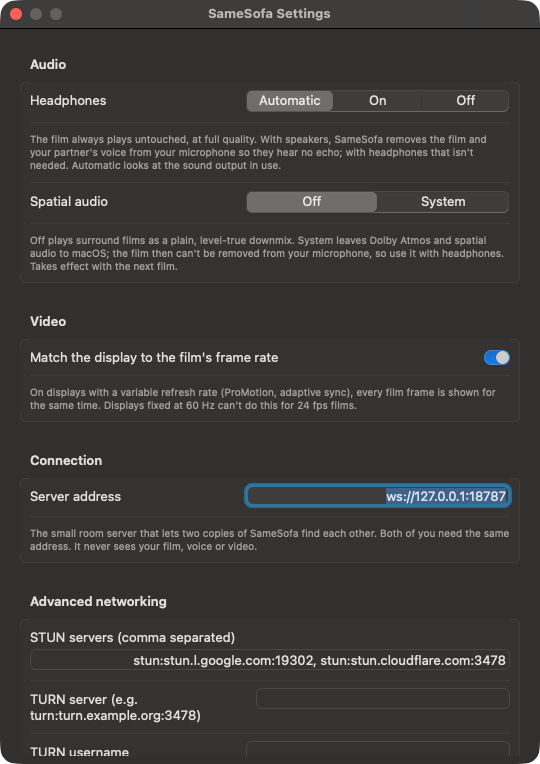
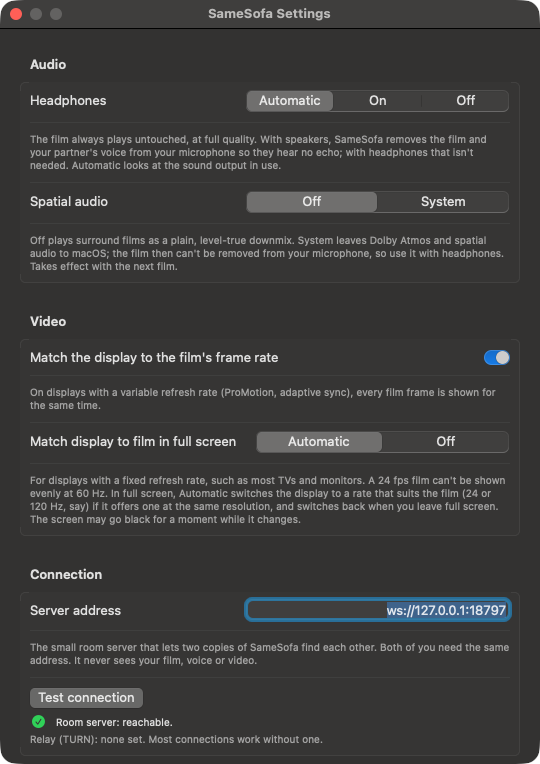
Seek bar shows which parts of the film the guest has, on both sides; version 1.2.1
The guest reports the received parts as runs of chunks with every progress
report (new optional message 'have'; older copies ignore it). While the film
is still arriving both seek bars draw them faintly, so after a jump ahead it
is visible where playing is immediate.

README: what is new in 1.2.1, the test program's modes, known limits.
scripts/build.sh builds 1.2.1 by default.

Changed region(s): [[0.0593, 0.5118, 0.9481, 0.873], [0.0593, 0.9031, 0.5926, 0.9935], [0.4444, 0.7827, 0.9481, 0.8128]]

diff --git a/Sources/SameSofa/PartyView.swift b/Sources/SameSofa/PartyView.swift
@@ -217,7 +217,8 @@ struct PartyView: View {
         let enabled = (party.phase == .together || party.role == .host) && party.preparing == nil && playback.isLoaded
         return VStack(spacing: 10) {
             ScrubBar(position: scrubbing ?? playback.position, duration: playback.duration,
-                     available: party.role == .guest ? party.transferFraction : 1) { value, ended in
+                     available: party.role == .guest ? party.transferFraction : 1,
+                     ranges: party.transferFraction < 1 ? party.receivedRanges : []) { value, ended in
                 scrubbing = ended ? nil : value
                 if ended { playback.seek(to: value) }
                 poke()
@@ -654,6 +655,10 @@ struct ScrubBar: View {
     let duration: Double
     /// Share of the film available locally (guest), drawn faintly.
     let available: Double
+    /// The parts of the film the guest has (0...1), drawn faintly on both
+    /// sides while the film is still arriving: after a jump ahead it shows
+    /// where playing will be immediate and where it has to wait.
+    var ranges: [ClosedRange<Double>] = []
     let onScrub: (Double, Bool) -> Void
     @State private var hovering = false
 
@@ -662,7 +667,15 @@ struct ScrubBar: View {
             let fraction = duration > 0 ? min(1, max(0, position / duration)) : 0
             ZStack(alignment: .leading) {
                 Capsule().fill(Color.white.opacity(0.18)).frame(height: hovering ? 7 : 5)
-                Capsule().fill(Color.white.opacity(0.18)).frame(width: geo.size.width * available, height: hovering ? 7 : 5)
+                if ranges.isEmpty {
+                    Capsule().fill(Color.white.opacity(0.18)).frame(width: geo.size.width * available, height: hovering ? 7 : 5)
+                } else {
+                    ForEach(Array(ranges.enumerated()), id: \.offset) { _, range in
+                        RoundedRectangle(cornerRadius: 2).fill(Color.white.opacity(0.22))
+                            .frame(width: max(2, geo.size.width * (range.upperBound - range.lowerBound)), height: hovering ? 7 : 5)
+                            .offset(x: geo.size.width * range.lowerBound)
+                    }
+                }
                 Capsule().fill(Theme.accent).frame(width: max(0, geo.size.width * fraction), height: hovering ? 7 : 5)
                 Circle().fill(.white).frame(width: hovering ? 16 : 12, height: hovering ? 16 : 12)
                     .offset(x: geo.size.width * fraction - (hovering ? 8 : 6))

diff --git a/Sources/SameSofaKit/Party.swift b/Sources/SameSofaKit/Party.swift
@@ -68,6 +68,8 @@ public final class Party: ObservableObject {
     @Published public private(set) var transferLine = ""
     /// ICE failed or timed out while setting up: the view offers "Try again".
     @Published public private(set) var connectionFailed = false
+    /// Which parts of the film the guest has, as shares of the film (0...1), on both sides (for the seek bar).
+    @Published public private(set) var receivedRanges: [ClosedRange<Double>] = []
     /// The partner's SameSofa is older or newer than this one (shown as a note; nothing is blocked).
     @Published public private(set) var versionNote: String?
     private var connectTimeout: DispatchWorkItem?
@@ -437,6 +439,7 @@ public final class Party: ObservableObject {
 
     private func partnerLeft() {
         versionNote = nil
+        if role == .host { receivedRanges = [] }
         dropGrace?.cancel()
         partnerPositionTimeout?.cancel()
         awaitingPartnerPosition = false
@@ -494,6 +497,9 @@ public final class Party: ObservableObject {
             sender?.request(chunks, urgent: urgent, reset: reset ?? false)
         case .progress(let fraction):
             transferFraction = fraction
+        case .have(let ranges):
+            guard role == .host, let film = sharedFilm else { return }
+            receivedRanges = ChunkMap.fractions(ranges: ranges, chunkCount: ChunkMap.chunkCount(fileSize: film.size, chunkSize: film.chunkSize))
         case .timeline(let timeline):
             playback.receive(timeline)
         case .heartbeat(let timeline, let actual):
@@ -551,6 +557,10 @@ public final class Party: ObservableObject {
             receiver.onProgress = { [weak self] fraction in
                 self?.transferFraction = fraction
                 self?.control?.send(.progress(fraction: fraction))
+            }
+            receiver.onRanges = { [weak self] ranges, count in
+                self?.receivedRanges = ChunkMap.fractions(ranges: ranges, chunkCount: count)
+                self?.control?.send(.have(ranges: ranges))
             }
             if let fileChannel { receiver.attach(fileChannel) }
             let asset = AVURLAsset(url: receiver.playerURL)

diff --git a/Sources/SameSofaCore/Chunks.swift b/Sources/SameSofaCore/Chunks.swift
@@ -163,3 +163,43 @@ public struct ChunkScheduler: Sendable {
     /// Forget in-flight requests (e.g. after a reconnect) so they get re-asked.
     public mutating func resetInFlight() { inFlight.removeAll() }
 }
+
+extension ChunkMap {
+    /// The received parts as runs of chunks `[first, last]`, in order. With
+    /// more than `limit` runs (a film scrubbed through many times) the
+    /// narrowest gaps are closed until `limit` are left: it is a picture for
+    /// the seek bar, not a record.
+    public func ranges(limit: Int = 48) -> [[Int]] {
+        var runs: [[Int]] = []
+        var start: Int?
+        for index in 0..<chunkCount {
+            if has(index) {
+                if start == nil { start = index }
+            } else if let first = start {
+                runs.append([first, index - 1])
+                start = nil
+            }
+        }
+        if let first = start { runs.append([first, chunkCount - 1]) }
+        while runs.count > max(1, limit) {
+            var narrowest = 1
+            for i in 1..<runs.count where runs[i][0] - runs[i - 1][1] < runs[narrowest][0] - runs[narrowest - 1][1] { narrowest = i }
+            runs[narrowest - 1][1] = runs[narrowest][1]
+            runs.remove(at: narrowest)
+        }
+        return runs
+    }
+
+    /// Runs of chunks as shares of the film (0...1). Anything malformed is left out.
+    public static func fractions(ranges: [[Int]], chunkCount: Int) -> [ClosedRange<Double>] {
+        guard chunkCount > 0 else { return [] }
+        return ranges.compactMap { run in
+            guard run.count == 2, run[0] >= 0, run[1] >= run[0], run[1] < chunkCount else { return nil }
+            return (Double(run[0]) / Double(chunkCount))...(Double(run[1] + 1) / Double(chunkCount))
+        }
+    }
+
+    public static func chunkCount(fileSize: Int64, chunkSize: Int) -> Int {
+        chunkSize > 0 ? Int((fileSize + Int64(chunkSize) - 1) / Int64(chunkSize)) : 0
+    }
+}

diff --git a/Tests/SameSofaCoreTests/NudgeTests.swift b/Tests/SameSofaCoreTests/NudgeTests.swift
@@ -134,4 +134,27 @@ final class CompatibilityTests: XCTestCase {
         idle.lowerHeldPosition(to: 0)
         XCTAssertFalse(idle.timeline.playing)
     }
+
+    func testReceivedRanges() {
+        var map = ChunkMap(fileSize: 1000 * 100, chunkSize: 1000)
+        XCTAssertEqual(map.ranges(), [])
+        for index in Array(0..<10) + Array(50..<60) + [99] { _ = map.mark(index) }
+        XCTAssertEqual(map.ranges(), [[0, 9], [50, 59], [99, 99]])
+        let fractions = ChunkMap.fractions(ranges: map.ranges(), chunkCount: map.chunkCount)
+        XCTAssertEqual(fractions.count, 3)
+        XCTAssertEqual(fractions[1].lowerBound, 0.5, accuracy: 1e-9)
+        XCTAssertEqual(fractions[1].upperBound, 0.6, accuracy: 1e-9)
+        XCTAssertEqual(fractions[2].upperBound, 1, accuracy: 1e-9)
+        // More runs than wanted: the narrowest gaps close first.
+        _ = map.mark(11)
+        XCTAssertEqual(map.ranges(limit: 3), [[0, 11], [50, 59], [99, 99]])
+        XCTAssertEqual(map.ranges(limit: 1), [[0, 99]])
+        // What another version sends is not trusted.
+        XCTAssertEqual(ChunkMap.fractions(ranges: [[5], [9, 3], [-1, 2], [0, 100], [1, 2]], chunkCount: 100).count, 1)
+        XCTAssertEqual(ChunkMap.chunkCount(fileSize: 100_001, chunkSize: 1000), 101)
+        // The message survives the wire, and a decoder that does not know it gives nil instead of failing loudly.
+        let message = ControlMessage.have(ranges: [[0, 9], [50, 59]])
+        XCTAssertEqual(ControlMessage.decode(message.encoded()), message)
+        XCTAssertNil(ControlMessage.decode(Data("{\"somethingNew\":{}}".utf8)))
+    }
 }

diff --git a/Sources/SameSofaKit/FileTransfer.swift b/Sources/SameSofaKit/FileTransfer.swift
@@ -140,6 +140,8 @@ public final class FileReceiver: NSObject, RTCDataChannelDelegate, AVAssetResour
     var requestChunks: (([Int], Bool, Bool) -> Void)?
     /// Fraction received, called on the main queue (throttled).
     var onProgress: ((Double) -> Void)?
+    /// Which parts have arrived (runs of chunks, chunk count), with every progress report.
+    var onRanges: (([[Int]], Int) -> Void)?
     private var lastProgressReport = Date.distantPast
     public private(set) var bytesReceived: Int64 = 0
 
@@ -230,6 +232,10 @@ public final class FileReceiver: NSObject, RTCDataChannelDelegate, AVAssetResour
             lastProgressReport = Date()
             let fraction = scheduler.map.fraction
             if let onProgress { DispatchQueue.main.async { onProgress(fraction) } }
+            if let onRanges {
+                let ranges = scheduler.map.ranges(), count = scheduler.map.chunkCount
+                DispatchQueue.main.async { onRanges(ranges, count) }
+            }
         }
     }
 

diff --git a/Sources/samesofa-itest/main.swift b/Sources/samesofa-itest/main.swift
@@ -187,6 +187,11 @@ func runSeekScenario() {
     host.playback.play()
     spin(2)
     _ = jump(0.5, from: host, label: "host to 50%", maxWait: 90)
+    // The seek bar's picture of what the guest has: the start and the part around the new position, on both sides.
+    check("received parts shown as separate ranges after a jump", wait(5) { guest.receivedRanges.count >= 2 },
+          guest.receivedRanges.map { String(format: "%.0f-%.0f%%", $0.lowerBound * 100, $0.upperBound * 100) }.joined(separator: " "))
+    check("the host sees the same ranges", wait(5) { host.receivedRanges.count == guest.receivedRanges.count && host.receivedRanges.count >= 2
+            && zip(host.receivedRanges, guest.receivedRanges).allSatisfy { abs($0.lowerBound - $1.lowerBound) < 0.03 && abs($0.upperBound - $1.upperBound) < 0.03 } })
     _ = jump(0.9, from: guest, label: "guest to 90%", maxWait: 90)
     // Scrub: ten quick seeks; only the last matters.
     let t0 = Date()

diff --git a/Sources/SameSofaCore/Messages.swift b/Sources/SameSofaCore/Messages.swift
@@ -78,6 +78,9 @@ public enum ControlMessage: Codable, Equatable, Sendable {
     case want(chunks: [Int], urgent: Bool, reset: Bool? = nil)
     /// Guest -> host: how much of the film has arrived (0...1).
     case progress(fraction: Double)
+    /// Guest -> host: which parts of the film have arrived, as runs of
+    /// chunks `[first, last]` (for the host's seek bar). Older apps ignore it.
+    case have(ranges: [[Int]])
     /// Either side: a new timeline (play, pause or seek).
     case timeline(Timeline)
     /// Host -> guest every second: the current timeline plus where the host's

diff --git a/README.md b/README.md
@@ -50,6 +50,34 @@ hear each other.
 *(Screenshots use a generated test film and a generated stand-in camera
 picture.)*
 
+### New in 1.2.1
+
+- **A dropped connection comes back by itself.** Both sides show "Connection
+  lost. Trying to reconnect…", the film waits, and the call is set up again in
+  the same room; what the guest has received is kept and the film resumes
+  from where the first side stopped. "Try again" (also after a first
+  connection that failed) really tries again.
+- **Seeking ahead of the download** holds both sides at once, fetches from the
+  new place first, and the seek bar shows on both sides which parts the guest
+  already has. The transfer line shows bytes, speed and time left on both sides.
+- **Call audio:** a crash when the microphone and the loudspeaker callbacks
+  overlapped is fixed, microphones with any sample rate and channel count
+  work (several channels are mixed), a sound device that changes mid-film is
+  followed, and the ⓘ readout says why a microphone isn't working.
+- **Damaged video timing** (B-frames without reorder information) is repaired
+  by copying in more cases: films that do not start at zero, uneven frame
+  durations, MPEG-TS.
+- **Match display to film in full screen** (Settings ▸ Video): a TV or monitor
+  with a fixed refresh rate is switched to a rate that suits the film while
+  SameSofa is in full screen, and back afterwards.
+- **Test connection** (Settings ▸ Connection) checks the room server and the
+  TURN relay; a relay can be baked into a build.
+- **Different versions** can watch together; the newer copy says "Your partner
+  has an older SameSofa. Some things may not work until they update."
+- VoiceOver: every control in the first screens, Settings, About,
+  Acknowledgements and the readout has a name and a hint; the room code is one
+  field.
+
 ---
 
 ## Install (for the person who just wants to watch)
@@ -486,6 +514,30 @@ engine (silent) instead of the synthetic one. The
 `--throttle` run caps the host's upload below the film's bitrate and checks that
 both sides pause when the guest runs dry and resume together.
 
+More modes of the same test program (each prints PASS/FAIL lines and a summary):
+
+```sh
+I=.build/debug/samesofa-itest; S=ws://127.0.0.1:18787
+$I --server $S --film big.mp4 --throttle 5000000 --seek-test 1       # seeks into film that hasn't arrived
+$I --server $S --film big.mp4 --throttle 5000000 --reconnect-test 1  # the call drops mid-film; Try again on each side
+$I --server $S --film big.mp4 --throttle 1000000 --control-latency 1 # pause/play latency under a saturated upload
+$I --connection-test $S              # Settings ▸ Test connection, with a stand-in TURN relay in the test
+$I --timestamp-suite /tmp/ts         # damaged video timing: detection, repair, fallback
+$I --timestamp-edge-suite /tmp/ts    # time bases, start offsets, variable rate, MPEG-TS, injected wrong repairs
+$I --audio-thread-test 1             # the call's two audio threads against each other; microphone formats 8-192 kHz
+$I --audio-engine-test film.mp4      # the real audio engine at zero volume (add --real-output-switch 1 to change the default output for real)
+$I --display-mode-test 1             # the display's modes and the plan (add --switch 1 to switch and restore for real)
+$I --receiver-folder-test 1          # two copies on one Mac keep their own films
+$I --device-smoke 1                  # this Mac's real microphone and output, silently (see below)
+```
+
+`--device-smoke` is the one to run on a new Mac: it starts the call's audio
+as in a call, without a partner and without playing anything, prints the
+output and microphone by kind (built-in, USB, Bluetooth), the microphone's
+format and level, opens every other microphone in turn, and exits 0 or 1
+with a short table. `scripts/dev/ax-dump.swift <pid>` lists what VoiceOver
+finds in a running copy's windows.
+
 Conversion end-to-end test: generate the synthetic test films (each has a
 white flash and a beep at 1, 4, 7, … s), then run every one through the host's
 conversion, the transfer and synced playback:
@@ -589,9 +641,16 @@ scripts/                  build.sh, fetch-webrtc.sh, build-apm.sh, build-ffmpeg.
 - The film transfer and the video call share the host's upload. On a slow
   uplink the call video is capped at 700 kbit/s, but a large file transfer can
   still make the call choppier until the guest has enough buffered.
-- If the connection between the two drops (Wi-Fi change, sleep), the host goes
-  back to "waiting" with the same code and the guest has to rejoin; the guest
-  re-downloads the film into a new temporary file.
+- Reconnecting after a drop needs the room server: if that is unreachable
+  too, or the app is quit, the guest has to join again and the film is sent
+  again from the start (nothing is resumed across a relaunch).
+- Reconnecting, the output-device change and the microphone path were tested
+  on one Mac without a microphone (simulated drops, a stand-in second output
+  device, synthetic microphone formats). Run `samesofa-itest --device-smoke 1`
+  on a Mac with a real microphone.
+- A partner on 1.2.0 or earlier does not reconnect in place (it has to
+  rejoin) and shows no version note; 1.1.0 and 1.2.0 were tested against
+  1.2.1 in both roles on one Mac.
 - The guest needs free disk space roughly the size of the film.
 - One film per session; to switch films, leave and host again.
 - Converting (not just rewrapping) a film takes minutes and the guest can't
